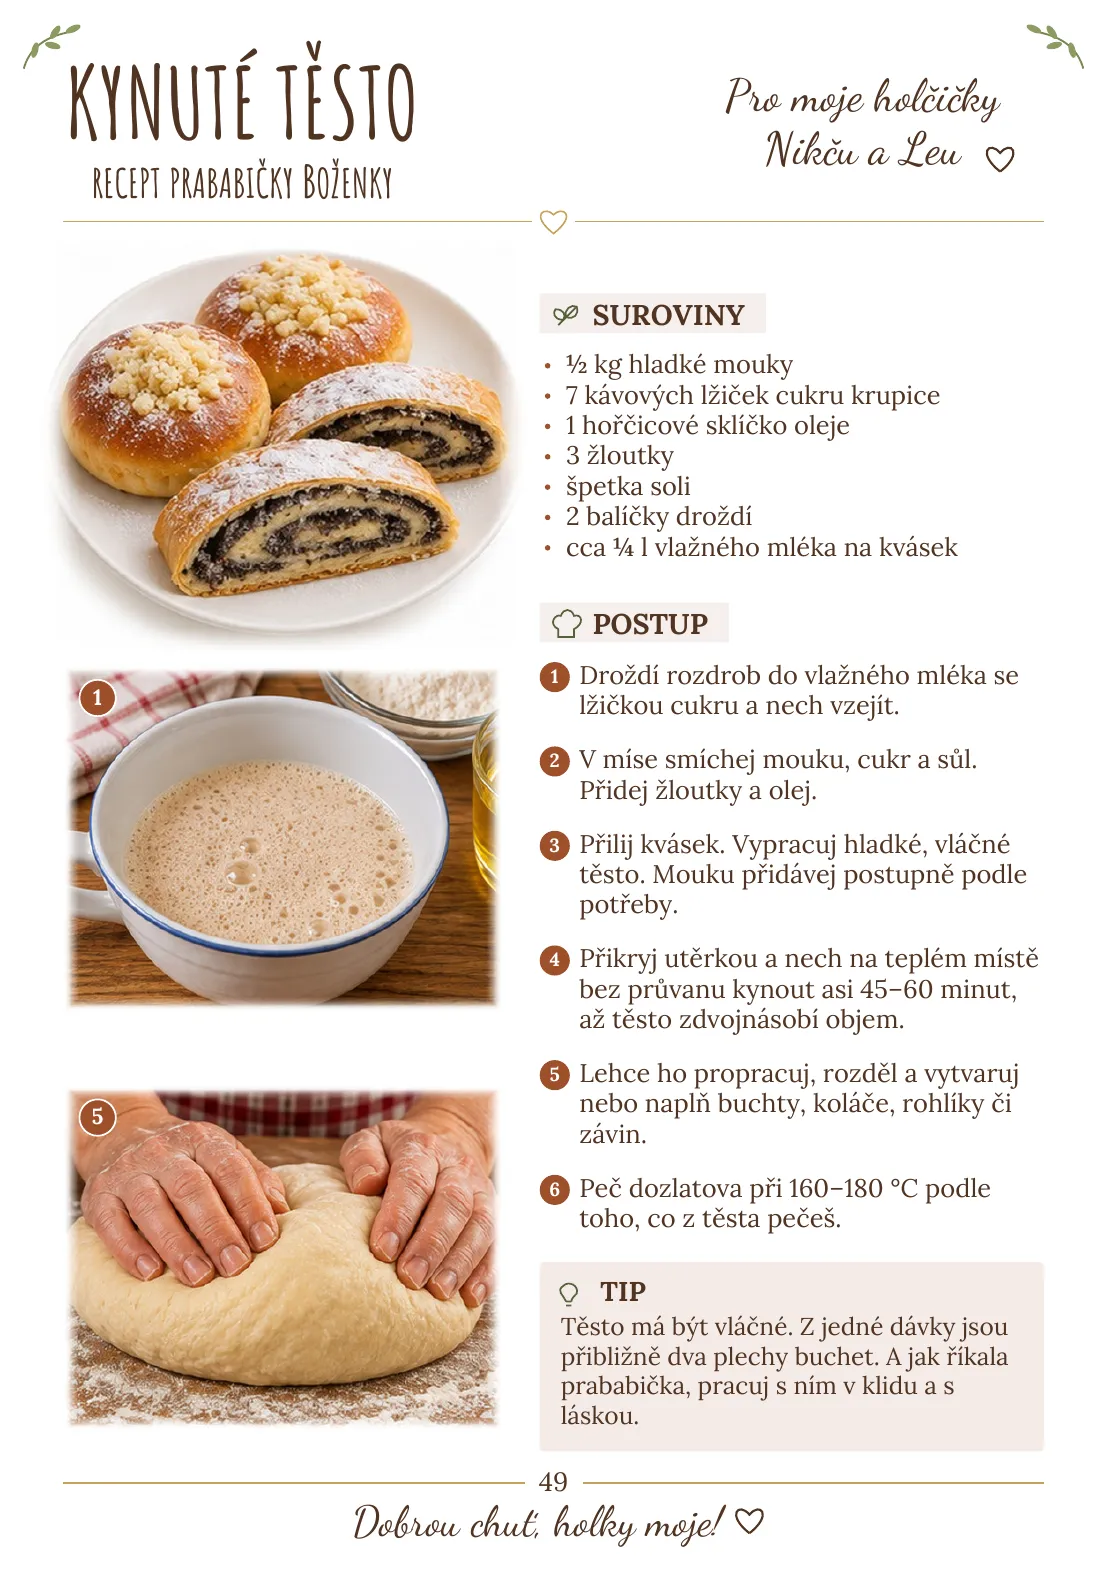
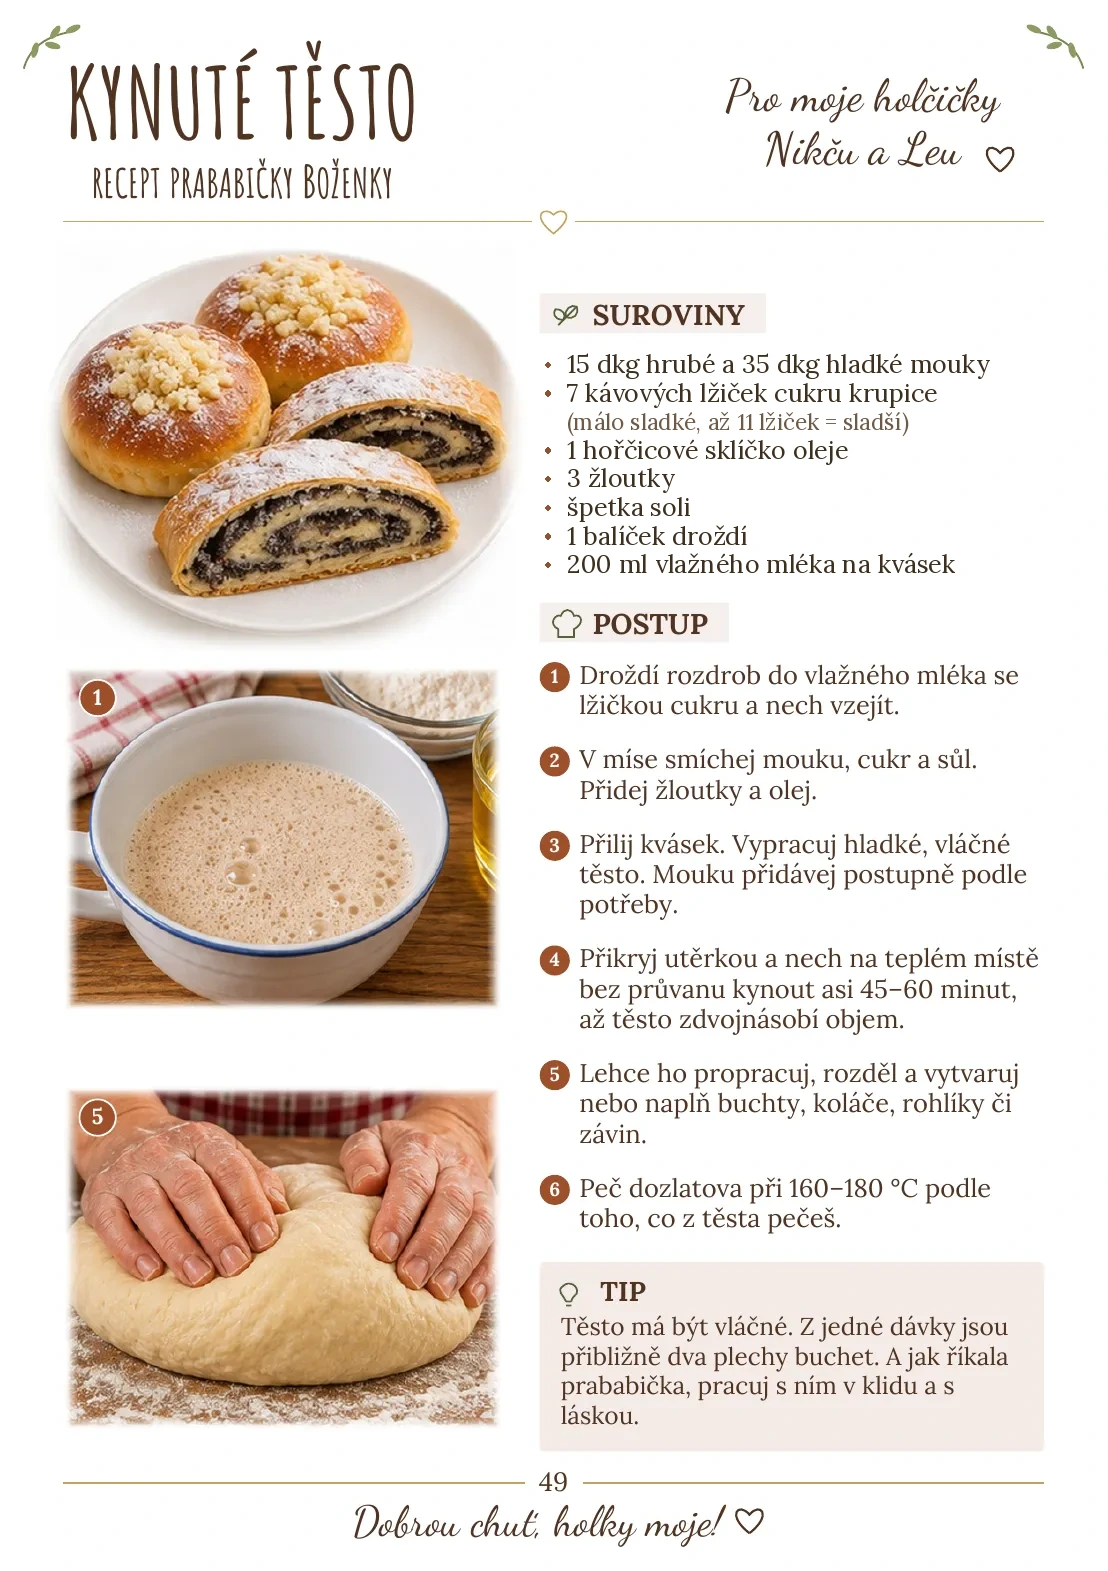
Kynuté těsto prababičky: oprava surovin podle rukopisu
Claude-Session: https://claude.ai/code/session_01Ws1vwXbsQEwQydLbxLHBm6

Changed region(s): [[0.491, 0.2183, 0.8899, 0.3743]]

diff --git a/sw.js b/sw.js
@@ -1,4 +1,4 @@
-const V='kucharka-v17';
+const V='kucharka-v18';
 const FILES=["./", "index.html", "style.css", "app.js", "data.json", "manifest.webmanifest", "icons/apple-touch-icon.png", "icons/favicon.png", "icons/icon-192.png", "icons/icon-512.png", "icons/icon-maskable-512.png", "pages/p001.webp", "pages/p002.webp", "pages/p003.webp", "pages/p004.webp", "pages/p005.webp", "pages/p006.webp", "pages/p007.webp", "pages/p008.webp", "pages/p009.webp", "pages/p010.webp", "pages/p011.webp", "pages/p012.webp", "pages/p013.webp", "pages/p014.webp", "pages/p015.webp", "pages/p016.webp", "pages/p017.webp", "pages/p018.webp", "pages/p019.webp", "pages/p020.webp", "pages/p021.webp", "pages/p022.webp", "pages/p023.webp", "pages/p024.webp", "pages/p025.webp", "pages/p026.webp", "pages/p027.webp", "pages/p028.webp", "pages/p029.webp", "pages/p030.webp", "pages/p031.webp", "pages/p032.webp", "pages/p033.webp", "pages/p034.webp", "pages/p035.webp", "pages/p036.webp", "pages/p037.webp", "pages/p038.webp", "pages/p039.webp", "pages/p040.webp", "pages/p041.webp", "pages/p042.webp", "pages/p043.webp", "pages/p044.webp", "pages/p045.webp", "pages/p046.webp", "pages/p047.webp", "pages/p048.webp", "pages/p049.webp", "pages/p050.webp", "pages/p051.webp", "pages/p052.webp", "pages/p053.webp", "pages/p054.webp", "pages/p055.webp", "pages/p056.webp", "pages/p057.webp", "pages/p058.webp", "pages/p059.webp", "pages/p060.webp", "pages/p061.webp", "pages/p062.webp", "pages/p063.webp", "pages/p064.webp", "pages/p065.webp", "pages/p066.webp", "pages/p067.webp", "pages/p068.webp", "pages/p069.webp", "pages/p070.webp", "pages/p071.webp", "pages/p072.webp", "pages/p073.webp", "pages/p074.webp", "pages/p075.webp", "pages/p076.webp", "pages/p077.webp", "pages/p078.webp", "pages/p079.webp", "pages/p080.webp", "pages/p081.webp", "pages/p082.webp", "pages/p083.webp", "pages/p084.webp", "pages/p085.webp", "pages/p086.webp", "pages/p087.webp", "pages/p088.webp", "pages/p089.webp", "pages/p090.webp", "pages/p091.webp", "pages/p092.webp", "pages/p093.webp", "pages/p094.webp", "pages/p095.webp", "pages/p096.webp", "pages/p097.webp", "pages/p098.webp", "pages/p099.webp", "pages/p100.webp", "pages/p101.webp", "pages/p102.webp"];
 self.addEventListener('install',e=>{e.waitUntil(caches.open(V).then(c=>c.addAll(FILES)).then(()=>self.skipWaiting()))});
 self.addEventListener('activate',e=>{e.waitUntil(caches.keys().then(k=>Promise.all(k.filter(x=>x!==V).map(x=>caches.delete(x)))).then(()=>self.clients.claim()))});
